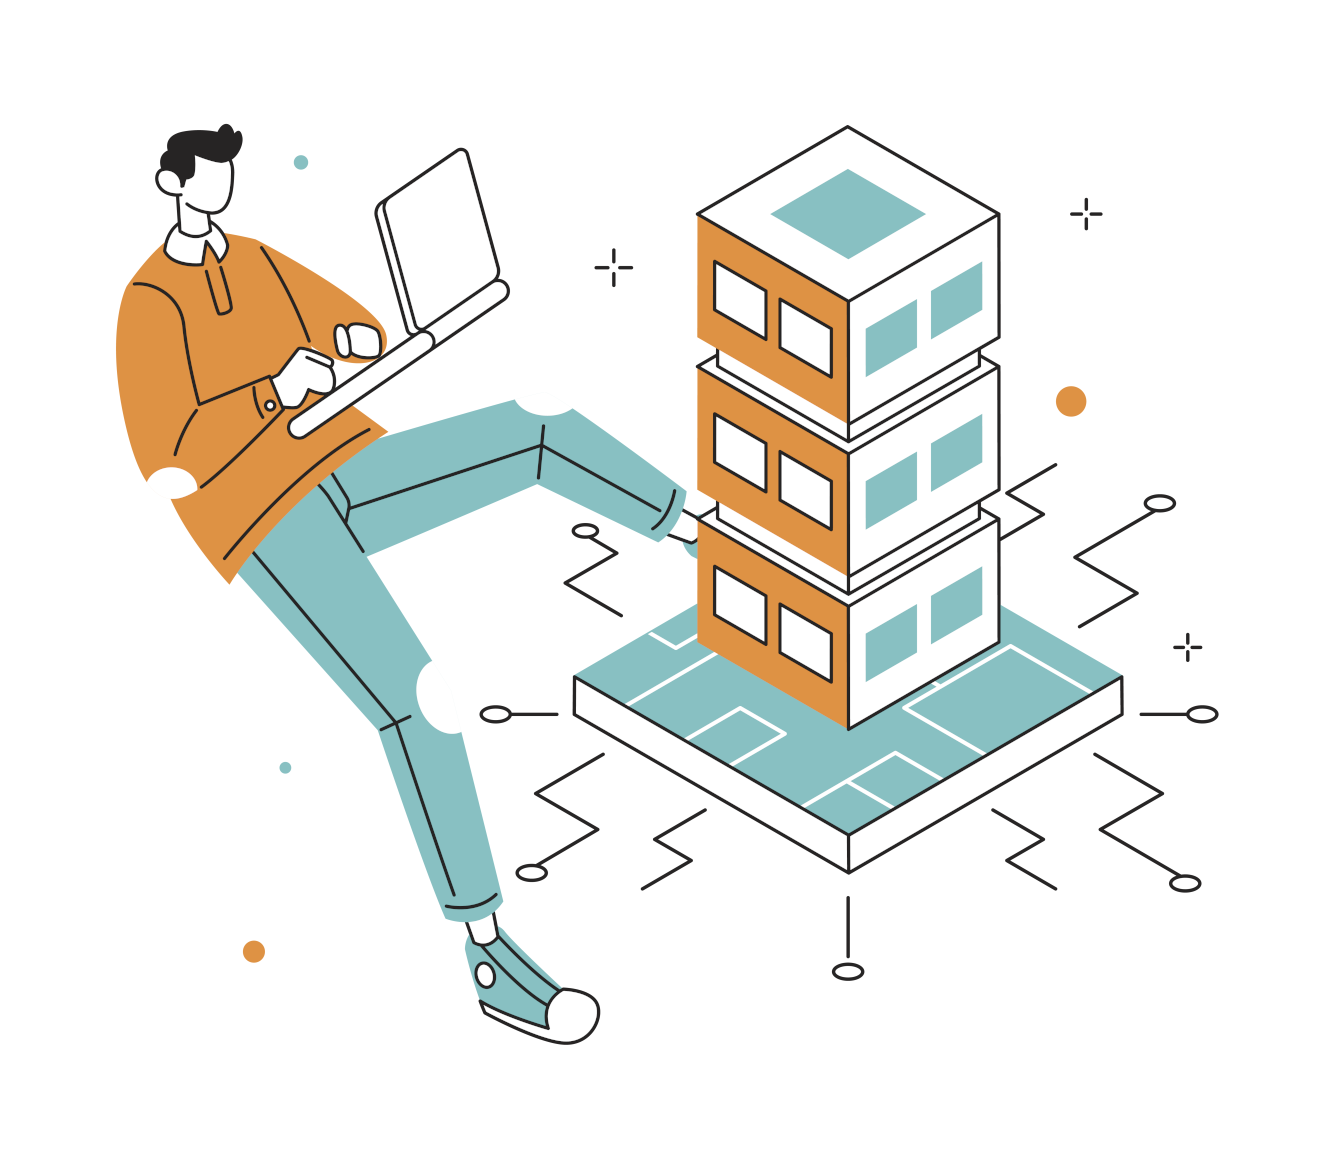
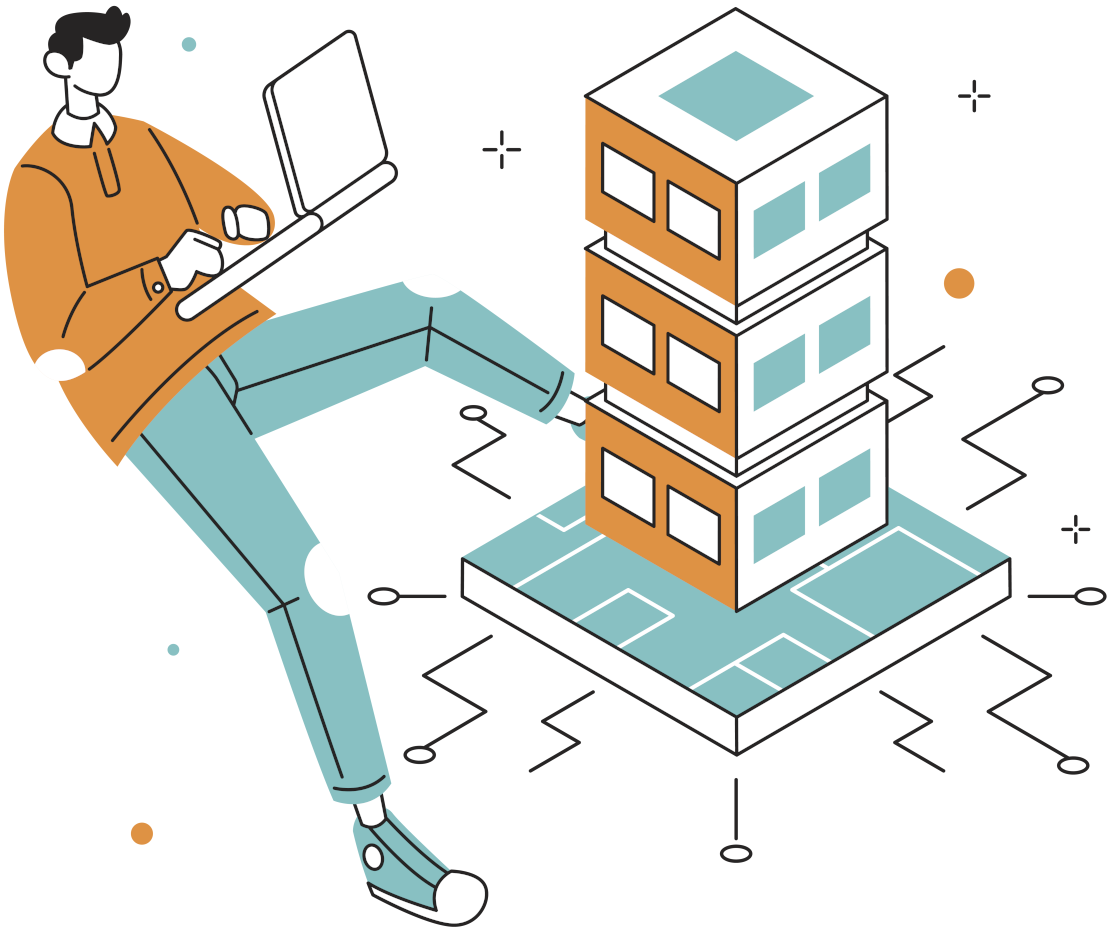
Versao desktop parcialmente finalizada

diff --git a/src/pages/Contact.jsx b/src/pages/Contact.jsx
@@ -2,6 +2,8 @@
 import React, { useState } from 'react';
 import Input from '../components/Input';
 import { handleNameValidation, handleEmailValidation, handleMessageValidation } from '../helpers/handleValidation';
+import hiringPeople from '../images/hiringPeople.png';
+import '../styles/contact.css';
 
 function Contact() {
   const [text, setText] = useState('');
@@ -20,32 +22,40 @@ function Contact() {
     setTextArea(value);
   }
 
-  function handleSubmit(event) {
-    event.preventDefault();
-  }
+  // function handleSubmit(event) {
+  //   event.preventDefault();
+  // }
 
   return (
     <section className="contact-section">
-      <div>
-        <form action="https://formsubmit.co/6714a332d4027e1d85fe840f879dd9b0" method="POST" onSubmit={handleSubmit}>
-          <Input name="Nome" type="text" text={text} handleChange={handleNameChange} />
-          <Input name="E-mail" type="email" text={emailText} handleChange={handleEmailChange} />
-          <textarea name="Mensagem" cols="30" rows="10" value={textArea} onChange={handleTextAreaChange} />
-          <button
-            type="submit"
-            disabled={
-              !(!handleNameValidation(text)
-              && handleEmailValidation(emailText)
-              && !handleMessageValidation(textArea))
-        }
-          >
-            Enviar
-          </button>
-        </form>
+      <div className="contact-left-container">
+        <div className="contact-title-container">
+          <h2>Precisando de um dev?</h2>
+        </div>
+        <div className="form-container">
+          <form action="https://formsubmit.co/6714a332d4027e1d85fe840f879dd9b0" method="POST">
+            <Input name="Nome" type="text" text={text} handleChange={handleNameChange} />
+            <Input name="E-mail" type="email" text={emailText} handleChange={handleEmailChange} />
+            <label htmlFor="Mensagem">
+              Sua mensagem
+              <textarea name="Mensagem" cols="30" rows="10" value={textArea} onChange={handleTextAreaChange} />
+            </label>
+            <button
+              type="submit"
+              disabled={
+                !(!handleNameValidation(text)
+                && handleEmailValidation(emailText)
+                && !handleMessageValidation(textArea))
+          }
+            >
+              Enviar
+            </button>
+          </form>
+        </div>
       </div>
-      {/* <div>
-        <img src={} alt="procurando-dev" />
-      </div> */}
+      <div className="contact-img-container">
+        <img src={hiringPeople} alt="procurando-dev" className="hiring-people-png" />
+      </div>
     </section>
   );
 }

diff --git a/src/styles/contact.css b/src/styles/contact.css
@@ -1,0 +1,86 @@
+*:focus {
+  outline: none;
+}
+
+.contact-section {
+  background-color: var(--main-background-color);
+  background-image: url('../images/fancy-pants-tr.png');
+  background-position: center bottom;
+  display: flex;
+  justify-content: space-between;
+  height: 100vh;
+  padding: 1em;
+  width: 100vw;
+}
+
+.contact-left-container {
+  display: flex;
+  flex-direction: column;
+  height: 100%;
+  width: 50%;
+}
+
+.contact-title-container {
+  color: var(--main-emphasis-color);
+  padding: 2em 0 0 2em;
+  height: 30%;
+  overflow-y: hidden;
+  width: 300px;
+}
+
+.contact-title-container h2 {
+  font-size: 2.8em;
+  overflow-y: hidden;
+}
+
+.contact-left-container .form-container {
+  padding: 0 2em 0;
+  overflow-y: hidden;
+}
+
+.contact-left-container label {
+  color: white;
+  display: block;
+}
+
+.contact-left-container input, textarea {
+  background-color: rgba(0, 0, 0, 0);
+  border: 1px solid var(--main-emphasis-color);
+  border-radius: 5px;
+  color: white;
+  display: block;
+  margin-bottom: 1em;
+  padding: 0.5em;
+}
+
+.contact-left-container button {
+  border: none;
+  border-radius: 5px;
+  cursor: pointer;
+  font-weight: 700;
+  margin-top: 1em;
+  padding: 0.5em 2em;
+  transition: 300ms ease;
+}
+
+.contact-left-container button:enabled {
+  background-color: var(--main-emphasis-color);
+  color: white;
+}
+
+.contact-img-container {
+  align-items: center;
+  animation: image 0.4s ease-out;
+  background-color: rgba(255, 255, 255, 0);
+  display: flex;
+  height: 90%;
+  justify-content: center;
+  margin-right: 1em;
+  width: 50%;
+}
+
+.contact-img-container .hiring-people-png {
+  filter: drop-shadow(-8px 12px 6px rgba(3, 3, 3, 0.95));
+  height: 100%;
+  width: 100%;
+}

diff --git a/src/styles/footer.css b/src/styles/footer.css
@@ -1,0 +1,52 @@
+footer {
+  align-items: center;
+  background-color: var(--main-background-color);
+  background-image: url('../images/fancy-pants-tr.png');
+  background-position: center top;
+  border-top: 2px solid white;
+  border-style: dashed;
+  display: flex;
+  height: 25vh;
+  justify-content: space-between;
+  padding: 1em 2em;
+}
+
+footer h4 {
+  color: var(--main-emphasis-color);
+  margin-bottom: 1em;
+}
+
+footer p, a {
+  color: white;
+  margin-bottom: 0.5em;
+  transition: 300ms ease;
+}
+
+footer a, a:visited, a:active {
+  display: block;
+  text-decoration: none;
+}
+
+footer a:hover {
+  color: var(--main-emphasis-color);
+}
+
+.footer-button-container {
+  align-items: center;
+  border: 1px solid var(--main-emphasis-color);
+  border-radius: 50%;
+  color: white;
+  cursor: pointer;
+  display: flex;
+  font-size: 3em;
+  font-weight: 800;
+  height: 80px;
+  justify-content: center;
+  overflow-y: hidden;
+  transition: 300ms ease;
+  width: 80px;
+}
+
+.footer-button-container:hover {
+  background-color: var(--main-emphasis-color);
+}

diff --git a/src/components/Footer.jsx b/src/components/Footer.jsx
@@ -1,0 +1,34 @@
+/* eslint-disable jsx-a11y/no-static-element-interactions */
+/* eslint-disable jsx-a11y/click-events-have-key-events */
+import React from 'react';
+import '../styles/footer.css';
+
+function Footer() {
+  function handleGoUp() {
+    window.scrollTo({
+      top: 0,
+      behavior: 'smooth',
+    });
+  }
+
+  return (
+    <footer>
+      <div className="footer-contacts">
+        <h4>Contato</h4>
+        <p>dev.tonigoncalves@outlook.com</p>
+        <p>+55 47 99234-8010</p>
+      </div>
+      <div className="footer-social-media">
+        <h4>Minhas redes</h4>
+        <a href="https://github.com/Raikouve" rel="noreferrer" target="_blank">Github</a>
+        <a href="https://www.linkedin.com/in/tonigoncalves/" rel="noreferrer" target="_blank">LinkedIn</a>
+        <a href="https://www.instagram.com/tonissx/?hl=pt-br" rel="noreferrer" target="_blank">Instagram</a>
+      </div>
+      <div className="footer-button-container" onClick={handleGoUp}>
+        ↑
+      </div>
+    </footer>
+  );
+}
+
+export default Footer;

diff --git a/src/App.jsx b/src/App.jsx
@@ -1,6 +1,7 @@
 import React from 'react';
 import './App.css';
-import Meta from './components/Meta';
+import Footer from './components/Footer';
+// import Meta from './components/Meta';
 import PortfolioContextProvider from './context/PortfolioContextProvider';
 import Contact from './pages/Contact';
 // import AboutMe from './pages/AboutMe';
@@ -10,12 +11,13 @@ import Projects from './pages/Projects';
 function App() {
   return (
     <main>
-      <Meta />
+      {/* <Meta /> */}
       <PortfolioContextProvider>
         <Presentation />
         {/* <AboutMe /> */}
         <Projects />
         <Contact />
+        <Footer />
       </PortfolioContextProvider>
     </main>
   );

diff --git a/src/components/Input.jsx b/src/components/Input.jsx
@@ -6,7 +6,7 @@ function Input({
 }) {
   return (
     <label htmlFor={name}>
-      {`${name}: `}
+      {name}
       <input name={name} type={type} value={text} required onChange={handleChange} />
     </label>
   );
